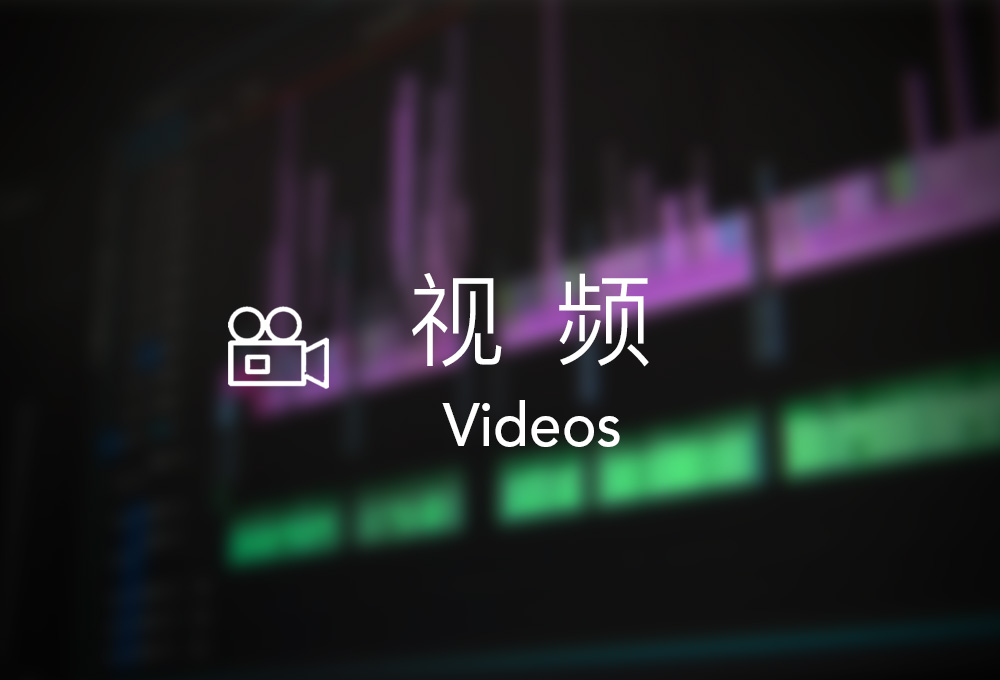
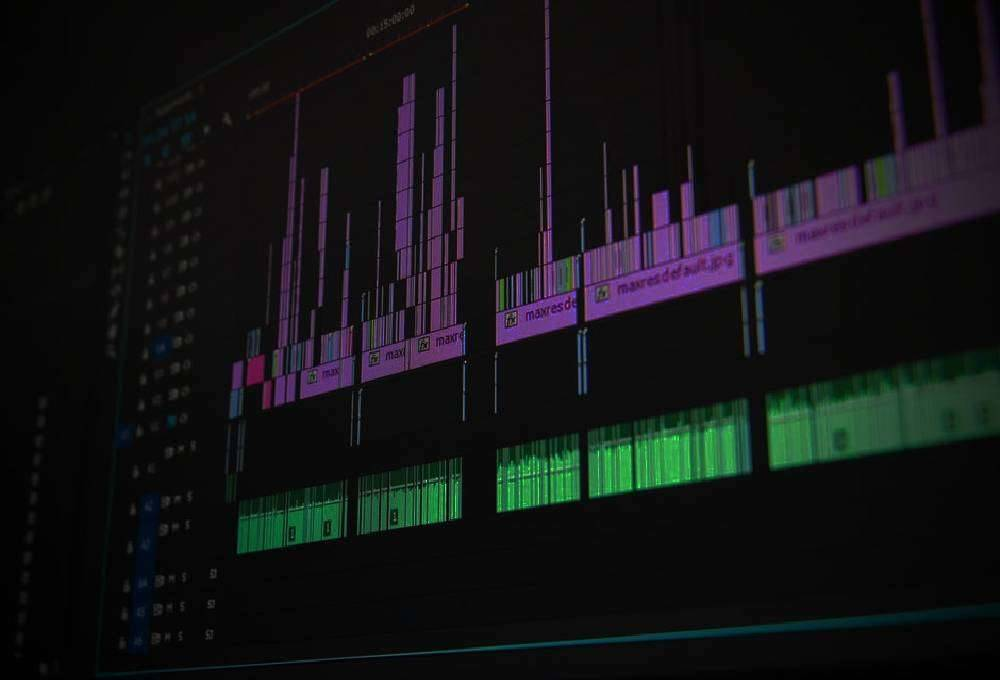
修改首页自媒体三张图、加入我们图片

diff --git a/AI_Institute/css/mei.css b/AI_Institute/css/mei.css
@@ -256,13 +256,13 @@
 	background-size: cover;
 }
 .selfMedia .article{
-	background: url(../img/demo/article2.jpg);
+	background: url(../img/demo/article.jpeg);
 }
 .selfMedia .video{
-	background: url(../img/demo/video2.jpg);
+	background: url(../img/demo/video.jpeg);
 }
 .selfMedia .advisory{
-	background: url(../img/demo/advisory2.jpg);
+	background: url(../img/demo/advisory.jpeg);
 }
 .selfMedia a div {
 	width: 100%;
